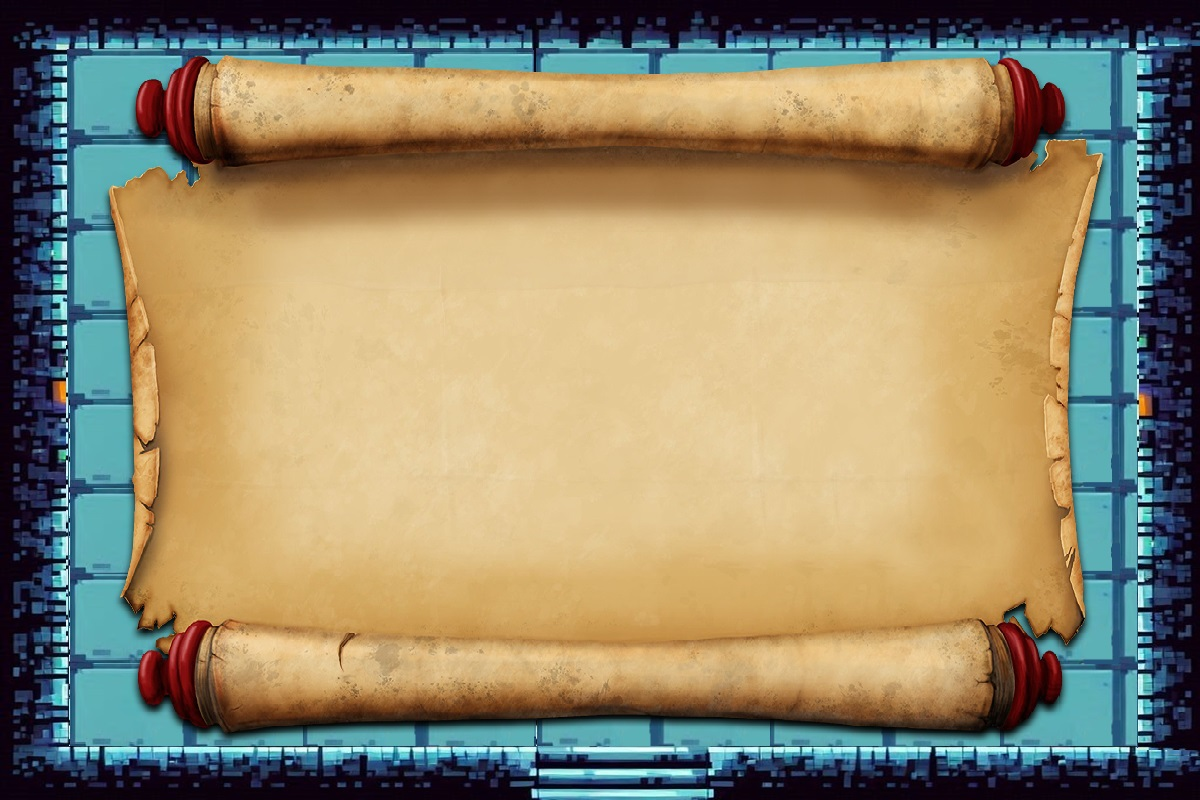
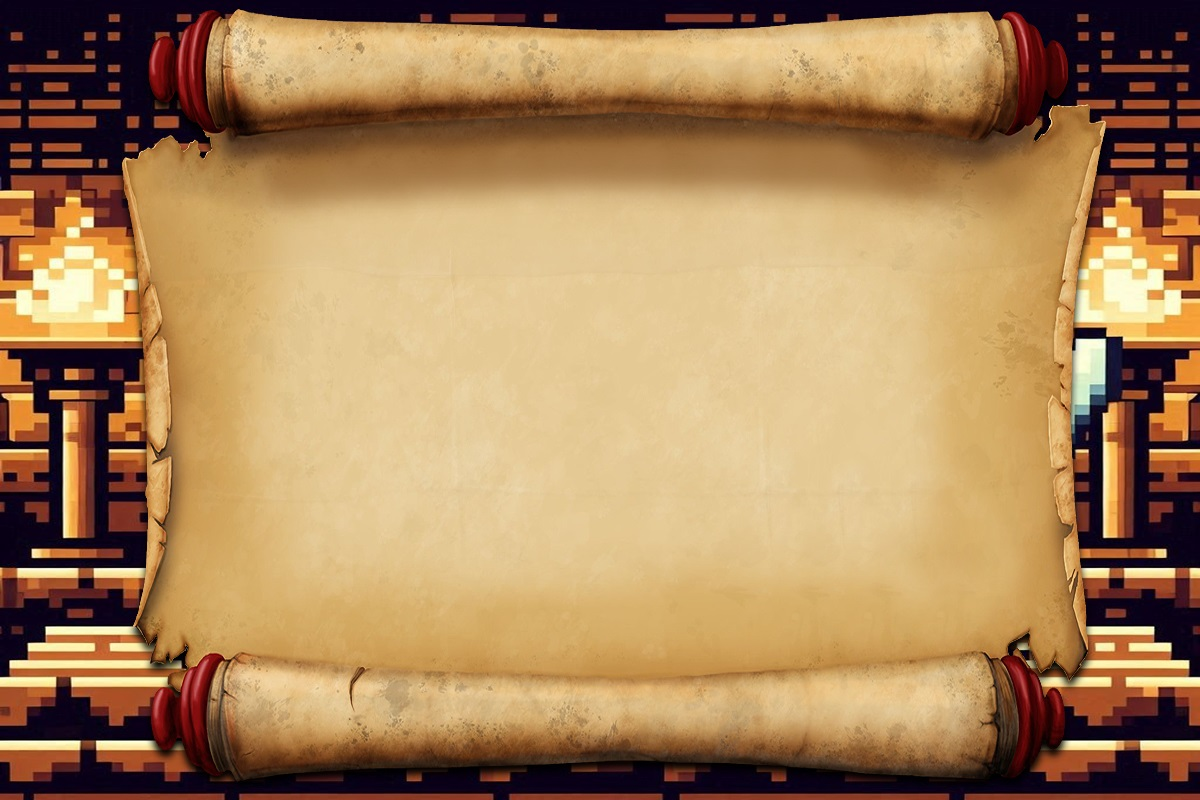
life, idle animation, about section

diff --git a/enemies.py b/enemies.py
@@ -1,3 +1,5 @@
+import pygame
+
 from character import Character
 
 
@@ -8,25 +10,40 @@ class Enemy(Character):
         self.move_x = move_x
         self.move_y = move_y
         self._moves = ((self.move_x, 0), (-self.move_x, 0), (0, self.move_y), (0, -self.move_y))
-        self.melee = True
+        self._melee = True
+        self.attacks = pygame.sprite.Group()
+        self.cooldown = 2000  # cooldown time - now 2 seconds
+        self._last_cooldown = pygame.time.get_ticks()
 
     def set_moves(self, x, y):
-        self._moves = ((x, 0), (-x, 0), (0, y), (0, -y))
+        self._moves = ((x, 0), (-x, 0), (0, y), (0, -y))  # how much object will move per update
 
     def _move(self, group=None):
         # making it move dependent of player object
         distance_x = self.rect.x - self.player.x
         distance_y = self.rect.y - self.player.y
+        if distance_x < 0:
+            direction = 'right'
+        elif distance_x > 0:
+            direction = 'left'
+        elif distance_y > 0:
+            direction = 'up'
+        else:
+            direction = 'down'
+        temp = self.attack(direction)
+        if temp:
+            self.attacks.add(temp)
+
         if group:
             group = [x for x in group if x != self]
 
         moves = []
 
-        if distance_x < 0 or (distance_x >= 0 and self.rect.x > self.borders[0] - 100 and not self.melee):
+        if distance_x < 0 or (distance_x >= 0 and self.rect.x > self.borders[0] - 100 and not self._melee):
             # self.rect.move_ip(self._moves[0])
             moves.append(self._moves[0])
         if (distance_x > 0 or
-                (distance_x >= 0 and self.rect.x < self.borders[0] - self.borders[0] + 100 and not self.melee)):
+                (distance_x >= 0 and self.rect.x < self.borders[0] - self.borders[0] + 100 and not self._melee)):
             # self.rect.move_ip(self._moves[1])
             moves.append(self._moves[1])
         if distance_y < 0:
@@ -37,19 +54,32 @@ class Enemy(Character):
             moves.append(self._moves[3])
 
         for move in moves:
-            self.rect.move_ip(move)
+            if not self.tired():
+                self.rect.move_ip(move)
             for member in group:
                 if self.rect.colliderect(member):
                     self.rect.move_ip(-move[0], -move[1])
+
+    def attack(self, direction: str = 'down'):
+        pass
 
 
 class MeleeEnemy(Enemy):
 
     def __init__(self, cx, cy, image, borders, player, move_x=4, move_y=4):
         super().__init__(cx, cy, image, borders, player, move_x, move_y)
+        self.cooldown = 4000
+        self._rest = 0
 
-    def tired(self):
-        pass
+    def tired(self) -> bool:
+        now = pygame.time.get_ticks()  # getting relative variable
+        if now - self._last_cooldown > self.cooldown:  # checking the difference
+            if now - self._rest > self.cooldown:  # this one ensures that Object will rest
+                self._last_cooldown = now  # this and self.rest - reset cycle
+            return False
+        else:
+            self._rest = now
+            return True
 
 
 class RangeEnemy(Enemy):
@@ -57,7 +87,30 @@ class RangeEnemy(Enemy):
         super().__init__(cx, cy, image, borders, player, move_x, move_y)
         self.melee = False
 
-    def attack(self):
-        pass
+    def attack(self, direction: str = 'down'):
+        now = pygame.time.get_ticks()
+        if now - self._last_cooldown > self.cooldown:
+            bullet = EnemyBullet(self.rect.x, self.rect.y, self.image, self.borders, direction, 3)
+            self._last_cooldown = now
+            return bullet
 
 
+class EnemyBullet(Character):
+    def __init__(self, cx, cy, image, borders: tuple, direction: str, speed=3):
+        super().__init__(cx, cy, image, borders)
+        self.direction = direction
+        self.speed = speed
+
+    def _move(self, group=None):
+        if self.direction == 'left':
+            self.rect.move_ip((-self.speed, 0))
+        elif self.direction == 'right':
+            self.rect.move_ip(self.speed, 0)
+        elif self.direction == 'up':
+            self.rect.move_ip(0, -self.speed)
+        elif self.direction == 'down':
+            self.rect.move_ip(0, self.speed)
+
+    def update(self, key_pressed=None, group=None, obstacles=None, borders: tuple = (1200, 800)):
+        # if self.rect.y > self.borders[1] or self.rect.y < 0 or self.rect.x < 0 or self.rect.x > self.borders[0]:
+        self._move()

diff --git a/menu.py b/menu.py
@@ -20,7 +20,7 @@ arrow_font_path = os.path.join('fonts', 'Arrows.ttf')
 font = pygame.font.Font(font_path, 74)
 arrow_font = pygame.font.Font(arrow_font_path, 44)
 medium_font = pygame.font.Font(font_path, 54)
-small_font = pygame.font.Font(font_path, 24)
+small_font = pygame.font.Font(font_path, 30)
 
 #background
 background_path = os.path.join('images', 'menu-background.jpg') #setting backgournd image path
@@ -104,7 +104,6 @@ def show_instructions():
         instructions_back_rect = instructions_back.get_rect(center=(DISPLAY[0] // 2, 600))
         instructions_background.blit(instructions_back, instructions_back_rect)
 
-
         screen.blit(instructions_background, (0, 0))
 
         #back action when escape is pressed
@@ -117,6 +116,45 @@ def show_instructions():
                     return
 
             pygame.display.update()
+
+def show_about():
+        about_background_path = os.path.join('images', 'about-background.jpg') #setting about image path
+        about_background = pygame.image.load(about_background_path) #load about image
+        about_background = pygame.transform.scale(about_background, DISPLAY) #about image scaling
+
+        #creating about title text
+        about_text = font.render("Team", True, WHITE)
+        about_rect = about_text.get_rect(center=(DISPLAY[0] // 2, 150))
+        about_background.blit(about_text, about_rect)
+
+        #creating instruction move text
+        about_team1 = small_font.render("Mateusz Ryszawy", True, WHITE)
+        about_team1_rect = about_team1.get_rect(center=(DISPLAY[0] // 2, 250))
+        about_background.blit(about_team1, about_team1_rect)
+
+        #creating instruction arrows text
+        about_team2 = small_font.render("Adam Sarga", True, WHITE)
+        about_team2_rect = about_team2.get_rect(center=(DISPLAY[0] // 2, 300))
+        about_background.blit(about_team2, about_team2_rect)
+
+        #creating back text
+        about_back = small_font.render("press escape to return to the menu", True, WHITE)
+        about_back_rect = about_back.get_rect(center=(DISPLAY[0] // 2, 775))
+        about_background.blit(about_back, about_back_rect)
+
+        screen.blit(about_background, (0, 0))
+
+        #back action when escape is pressed
+        while True:
+            for event in pygame.event.get():
+                if event.type == pygame.QUIT:
+                    pygame.quit()
+                    sys.exit()
+                elif event.type == pygame.KEYDOWN and event.key == pygame.K_ESCAPE:
+                    return
+
+            pygame.display.update()
+
 
 def main_menu():
     buttons = [
@@ -141,7 +179,7 @@ def main_menu():
                         import main #start the game by import main module
                         main.main()
                     elif button.text == "About":
-                        print("trzeba dodać info o nas") #about us
+                        show_about() #start about section
                     elif button.text == "Instructions":
                         show_instructions() #start instructions
                     elif button.text == "Quit":

diff --git a/player.py b/player.py
@@ -1,17 +1,20 @@
 import pygame
 from character import Character
 
-
 class Player(Character):
 
-    def __init__(self, cx, cy, image, border: tuple):
-        super().__init__(cx, cy, image, border)
-    
-    def set_idle_animation_frames(self, frames: list):
-        self.idle_animation_frames = frames
+    def __init__(self, cx, cy, images, border: tuple):
+        super().__init__(cx, cy, images[0], border)
+        self.images = images  #hero animation images list
+        self.image_index = 0  #current animation index image
+        self.animation_delay = 13  #set animation delay
+        self.last_delay = self.animation_delay  #set last delay
+        self.health = 100  #starting player healt
+        self.max_health = 100  #maximum player health
+        self.border = border  #border for window dimensions
 
     def get_event(self, **kwargs):
-        # player moves by [] when key pressed
+        # Player moves by 8 pixels when key pressed
         if kwargs['key_pressed'][pygame.K_LEFT]:
             self.rect.move_ip([-8, 0])
         if kwargs['key_pressed'][pygame.K_RIGHT]:
@@ -20,6 +23,43 @@ class Player(Character):
             self.rect.move_ip([0, -8])
         if kwargs['key_pressed'][pygame.K_DOWN]:
             self.rect.move_ip([0, 8])
+    
+        self.last_delay -= 1 #decreasing delay
+        if self.last_delay <= 0:
+            self.image_index += 1 #go to the next animation image
+            if self.image_index >= len(self.images): #setting loop
+                self.image_index = 0
+            self.image = self.images[self.image_index] #replace animation image with next index
+            self.last_delay = self.animation_delay #reset delay
 
     def attack(self):
         pass
+
+    def draw(self, display):
+        super().draw(display)
+        self.draw_health_bar(display)
+
+    def draw_health_bar(self, display):
+        health_bar_width = self.border[0] // 2  #half the window width
+        health_bar_height = 20  #health bar height
+        health_bar_x = (self.border[0] - health_bar_width) // 2  #health bar centered
+        health_bar_y = self.border[1] - health_bar_height - 20  #health bar on bottom
+
+        health_percentage = self.health / self.max_health #health percentage
+        current_health_width = int(health_bar_width * health_percentage) #actual health
+
+        health_bar_color = (255, 0, 0)  #red is life
+        death_color = (0, 0, 0)  #black is death
+
+        pygame.draw.rect(display, death_color, (health_bar_x, health_bar_y, health_bar_width, health_bar_height)) #death bar
+        pygame.draw.rect(display, health_bar_color, (health_bar_x, health_bar_y, current_health_width, health_bar_height)) #health bar
+
+    def take_damage(self, amount): #take damage method, decreasing health level
+        self.health -= amount
+        if self.health < 0:
+            self.health = 0
+
+    def heal(self, amount): #increasing health level method
+        self.health += amount
+        if self.health > self.max_health:
+            self.health = self.max_health

diff --git a/main.py b/main.py
@@ -1,6 +1,8 @@
 import os
 import pygame
+import random
 from player import Player
+from item import Heart
 from level import DetectCollision
 
 # pygame setup
@@ -34,11 +36,24 @@ for file_name in file_names:
     # convert_alpha() is for fast blit into desired surface that's why no normal convert()
     IMAGES[image_name] = pygame.image.load(os.path.join(path, file_name)).convert_alpha(BACKGROUND)
 
-player = Player(DISPLAY[0] / 2, DISPLAY[1] / 2, IMAGES['PLAYER'], DISPLAY)
+player_images = []
+for i in range(1, 6):  # 5 images: hero_idle_01.png to hero_idle_08.png
+    image_name = f'hero_idle_{i:02}.png'
+    player_images.append(pygame.image.load(os.path.join(path, image_name)).convert_alpha())
+
+heart_image = pygame.image.load(os.path.join(path, 'heart.png')) #heart image
+
+player = Player(DISPLAY[0] / 2, DISPLAY[1] / 2, player_images, DISPLAY)
 # enemy = MeleeEnemy(100, 100, IMAGES['PLAYER'], DISPLAY, player)
 # enemy1 = RangeEnemy(100, 300, IMAGES['PLAYER'], DISPLAY, player, -3, 5)
 level = DetectCollision(player, DISPLAY, IMAGES, screen, BACKGROUND)
 level.new_level()
+
+last_health_update = pygame.time.get_ticks() #time from start of the game
+last_item_spawn = pygame.time.get_ticks() #time from start of the game
+item_spawn_interval = 1000
+
+hearts = pygame.sprite.Group() #group of hearts on the screen
 
 # main loop
 while running:
@@ -54,10 +69,27 @@ while running:
         if event.type == pygame.QUIT:
             running = False
 
+    #------------------- obrażenia zadawane graczowi w czasie do testu hp i serduszka (do usunięcia potem)
+    current_time = pygame.time.get_ticks() #time from start of the game
+    if current_time - last_health_update >= 1000: 
+        player.take_damage(5)  # -5hp
+        last_health_update = current_time  #reset timer, new damage loop
+    #----------------------------------------------------------------------------------------------------
+
+    if current_time - last_item_spawn >= item_spawn_interval:
+        new_heart = Heart(heart_image, DISPLAY) #create new heart objcet
+        hearts.add(new_heart) #add new_heart to hearts group
+        last_item_spawn = current_time  #reset spawn timer
+    
+    collided_hearts = pygame.sprite.spritecollide(player, hearts, True) #check collides between heart and player and delete collided heart from hearts group, adding it to collided hearts
+    for heart in collided_hearts:
+        heart.heal(player) #heal from collided heart
+
     level.update()  # moving enemies
     level.draw(screen)
     player.update(pygame.key.get_pressed())
     player.draw(screen)
+    hearts.draw(screen)
     pygame.display.update()
 
     # lets make it 60fps

diff --git a/item.py b/item.py
@@ -1,0 +1,22 @@
+import pygame
+import random
+
+class Item(pygame.sprite.Sprite):
+
+    def __init__(self, cx, cy, image, borders):
+        super().__init__()
+        self.image = image #sprite image
+        self.rect = self.image.get_rect() #rect of the sprite
+        self.rect.center = (cx, cy) #start position
+        self.borders = borders #borders of the display
+
+class Heart(Item):
+
+    def __init__(self, image, borders):
+        super().__init__(random.randint(0, borders[0]), random.randint(0, borders[1]), image, borders) #random position of heart
+
+    def spawn(self):
+        self.rect.center = (random.randint(0, self.borders[0]), random.randint(0, self.borders[1])) #setting new random position  of heart and spawn it on a display
+
+    def heal(self, player):
+        player.heal(5)  # +5hp

diff --git a/level.py b/level.py
@@ -33,10 +33,16 @@ class DetectCollision:
 
     def update(self):
         self.set_of_enemies.update(group=self.set_of_enemies, obstacles=self.set_of_obstacles)
+        for enemy in self.set_of_enemies:
+            for attack in enemy.attacks:
+                attack.update()
+                attack.draw(self.surface)
+
         self.set_of_obstacles.update()
 
     def draw(self, screen):
         self.set_of_enemies.draw(screen)
+        self.set_of_obstacles.draw(screen)
 
     def pause(self):
         pass

diff --git a/character.py b/character.py
@@ -37,3 +37,6 @@ class Character(pygame.sprite.Sprite):
         # right
         if self.rect.centerx > self.borders[0] - 50:
             self.rect.centerx = self.borders[0] - 50
+
+    def tired(self):
+        return False
